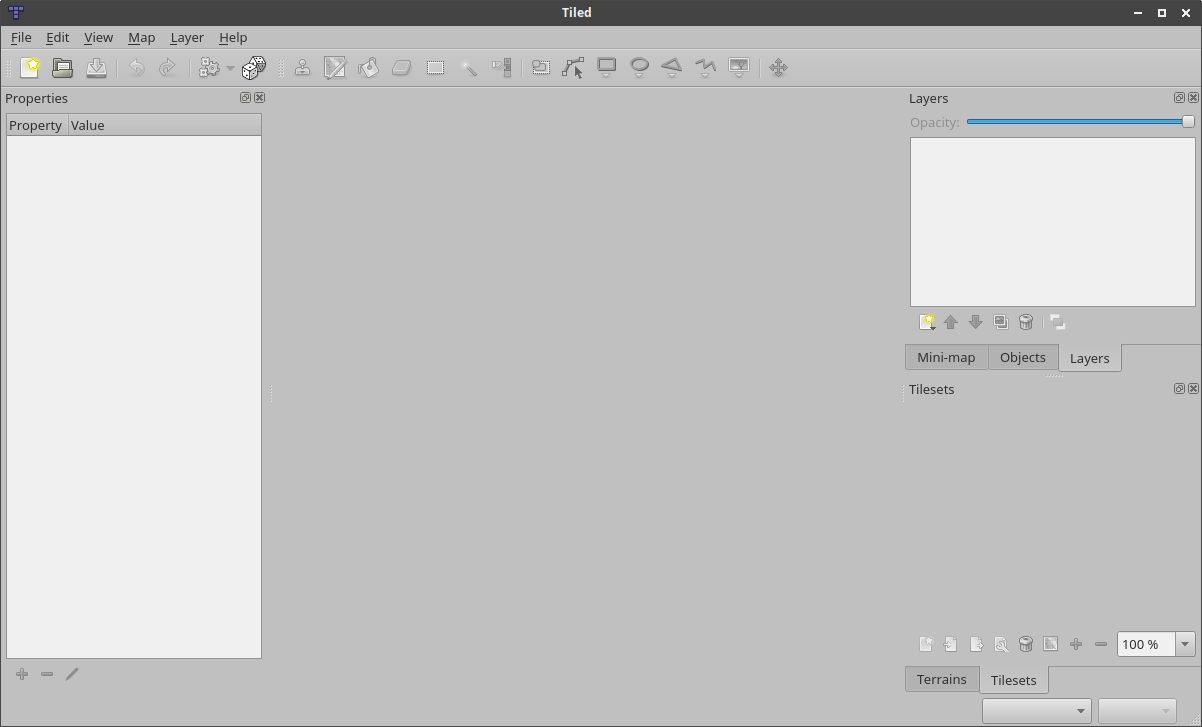
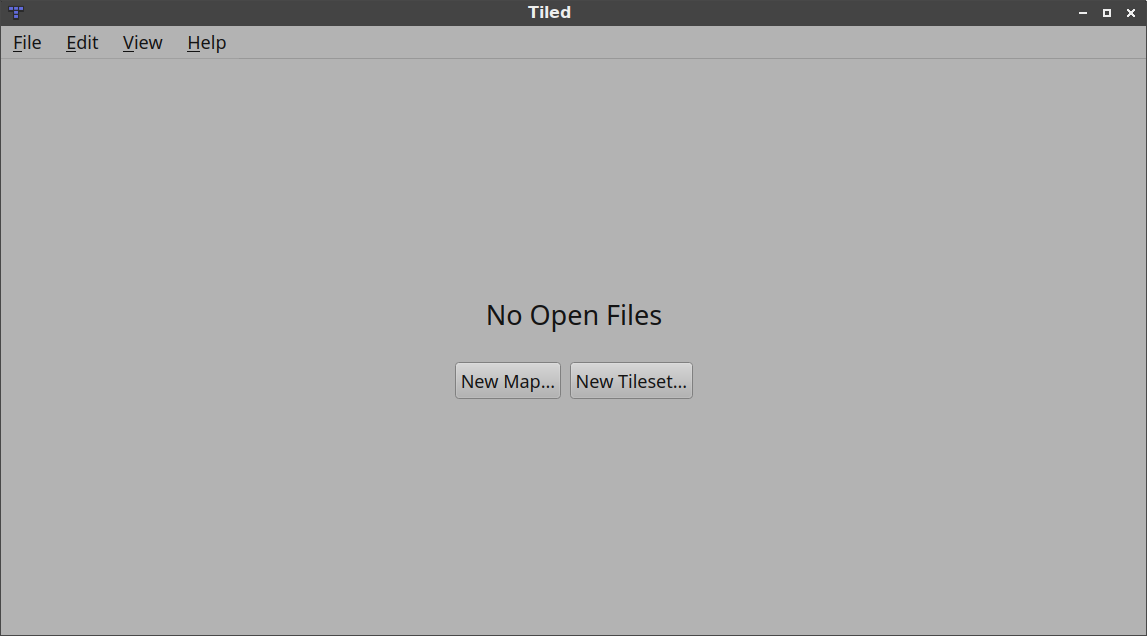
docs: Updated Getting Started section
Updated instructions and screenshots in Getting Started, as well as some
minor adjustments.

diff --git a/docs/manual/automapping.rst b/docs/manual/automapping.rst
@@ -22,7 +22,7 @@ layer and everything else is setup for you. This brings some advantages:
 External Links
 --------------
 
-* `Automapping explained for tiled version 0.9 and later (YouTube) <http://www.youtube.com/watch?v=UUi0lD1pxyQ>`__
+* `Automapping explained for Tiled 0.9 and later (YouTube) <http://www.youtube.com/watch?v=UUi0lD1pxyQ>`__
 * `Examples on Automapping <https://github.com/stefanbeller/tiled_examples>`__
 * `Tiled Map Editor Tutorial Part Three: AutoMap (YouTube) <https://youtu.be/A_A6rz7cvG4>`__
 
@@ -65,7 +65,7 @@ and the output section. The region layer(s) are only used to mark
 regions, where an Automapping rule exists. Therefore it does not matter
 which tiles are used in this layer, since these tiles are just used to
 define a region. So either use any tile or no tile at a coordinate to
-indicate if that coordinate belongs to a rule or if it doesn’t.
+indicate if that coordinate belongs to a rule or if it doesn't.
 
 If multiple rules are defined in one rulemap file, the regions must not
 be adjacent. That means there must be at least one tile of unused space
@@ -390,8 +390,8 @@ regions
 ^^^^^^^
 
 So with this rule we want to put the bent in shore line tile in the top
-left corner, hence we don’t care which tile has been there before. Also
-we don’t care about the tile in the lower right corner. (probably water,
+left corner, hence we don't care which tile has been there before. Also
+we don't care about the tile in the lower right corner. (probably water,
 but can be any decorative watertile, so just ignore it).
 
 +-----------------------------------------------------------------+------------------------------------------------------------------+-------------------------------------------------------------------+
@@ -403,7 +403,7 @@ we can see the both tilelayers regions input and regions output. The
 input section covers just these two tiles as we discussed. The output
 region covers just the single tile we want to output. Though the input
 and output region do not overlap, the united region of both the input
-and the output region is still one coherent region, so it’s one rule and
+and the output region is still one coherent region, so it's one rule and
 works.
 
 Output regions can be larger than absolutely required, since when there
@@ -418,14 +418,14 @@ Now we want to put all the nine possible patterns we observed as
 possible input for this rule. We could of course define nine different
 layers *input1\_Ground* up to *input9\_Ground*
 
-Nine TileLayers?! what a mess, we’ll put it in a better way.
+Nine TileLayers?! what a mess, we'll put it in a better way.
 
 Also consider not having just 3 possible tiles at the 2 locations but 4.
 Then we would need 4\*4=16 tilelayers to get all conditions. Another
 downside of this comes with more needed locations: Think of more than 2
 locations needed to construct a ruleinput. So for 3 locations, then each
 location could have the 3 possibilites, hence you need 3\*3\*3 = 27
-tilelayers. It’s not getting better...
+tilelayers. It's not getting better...
 
 So let's try a smart way: All input layers have the same name, so at
 each position any of the three different tiles is valid.
@@ -445,7 +445,7 @@ outputs
 
 The output is straight forward, since only one tile is needed. No
 randomness is needed, hence the index is not needed to be varied, so
-it’s kept empty. The desired output layer is called Ground, so the over
+it's kept empty. The desired output layer is called Ground, so the over
 all name of the single output layer will be output Ground. At this
 single layer at the correct location the correct tile is placed.
 

diff --git a/docs/manual/introduction.rst b/docs/manual/introduction.rst
@@ -43,35 +43,36 @@ Creating a New Map
 ~~~~~~~~~~~~~~~~~~
 
 When launching Tiled for the first time, we are greeted with the
-following default window layout:
+following window:
 
 .. figure:: images/introduction/tiled-window.png
    :alt: Tiled Window
 
    Tiled Window
 
-There is a large gray area in the middle because no map is open yet. The
-first thing we’ll do is to start a new map with *File -> New -> New Map…*
-(``Ctrl+N``). The following dialog will pop up:
+The first thing we'll do is to start a new map with *File -> New -> New
+Map…* (``Ctrl+N``). The following dialog will pop up:
 
 .. figure:: images/introduction/tiled-new-map.png
    :alt: New Map
+   :scale: 66
 
    New Map
 
 Here, we choose the initial map size, tile size, orientation, tile layer
 format, tile render order (only supported for *Orthogonal* maps) and whether
 the map is :doc:`infinite <using-infinite-maps>` or not. All of these things
-can be changed later as needed, so it’s not important to get it all right the
+can be changed later as needed, so it's not important to get it all right the
 first time.
 
-After pressing *OK*, we’ll see the tile grid and an initial tile layer
+After saving our map, we'll see the tile grid and an initial tile layer
 will be added to the map. However, before we can start using any tiles
 we need to add a tileset. Choose *File -> New -> New Tileset…* to open the
 New Tileset dialog:
 
 .. figure:: images/introduction/tiled-new-tileset.png
    :alt: New Tileset
+   :scale: 66
 
    New Tileset
 
@@ -82,19 +83,37 @@ one pixel *margin* around the tiles and a one pixel *spacing* in between
 the tiles (this is pretty rare actually, usually you should leave these
 values on 0).
 
-After pressing *OK*, Tiled should look as follows:
+.. note::
+
+   We leave the *Embed in map* option off. This is recommended, since it
+   will allow the tileset to be used by multiple maps without setting up
+   its parameters again. It will also be good to store the tileset in
+   its own file if you later add tile properties, terrain definitions,
+   collision shapes, etc., since that information is then shared between
+   all your maps.
+
+After saving the tileset, Tiled should look as follows:
+
+.. figure:: images/introduction/tiled-new-tileset-created.png
+   :alt: Tileset Created
+
+   Tileset Created
+
+Since we don't want to do anything else with the tileset for now, just
+switch back to the map file:
 
 .. figure:: images/introduction/tiled-new-map-tileset-added.png
-   :alt: Tileset Added
+   :alt: Tileset Usable on the Map
 
-   Tileset Added
+   Tileset Usable on the Map
 
-We’re ready to select some tiles and :doc:`start painting <editing-tile-layers>`!
-But first, let’s have a quick look at the :doc:`various layer types <layers>`
-supported by Tiled.
+We're ready to select some tiles and start painting! But first, let's
+have a quick look at the :doc:`various layer types <layers>` supported
+by Tiled.
 
 .. note::
-   Most of the manual still needs to be written. Fortunately, there is a
+
+   Much of the manual still needs to be written. Fortunately, there is a
    very nice `Tiled Map Editor Tutorial Series`_ on GamesFromScratch.com.
    In addition, the support for Tiled in various :doc:`engines and frameworks </reference/support-for-tmx-maps>`
    often comes with some usage information.

diff --git a/docs/manual/export.rst b/docs/manual/export.rst
@@ -83,18 +83,27 @@ Views
 
 Views can be defined using :ref:`rectangle objects <insert-rectangle-tool>`
 where the Type has been set to ``view``. The position and size will be
-snapped to pixels. Whether the view is visible depends on whether the
-object is visible. Views are automatically enabled when any views are
-defined.
+snapped to pixels. Whether the view is visible when the room starts
+depends on whether the object is visible. The use of views is
+automatically enabled when any views are defined.
 
-The following custom properties can be used to define the various
+.. figure:: images/gamemaker-view-settings.png
+   :alt: GameMaker View Settings
+   :figclass: align-right
+
+The following custom properties can be used to define the various other
 properties of the view:
 
-* string ``objName``
+**Port on screen**
+
 * int ``xport`` (default: 0)
 * int ``yport`` (default: 0)
 * int ``wport`` (default: 1024)
 * int ``hport`` (default: 768)
+
+**Object following**
+
+* string ``objName``
 * int ``hborder`` (default: 32)
 * int ``vborder`` (default: 32)
 * int ``hspeed`` (default: -1)
